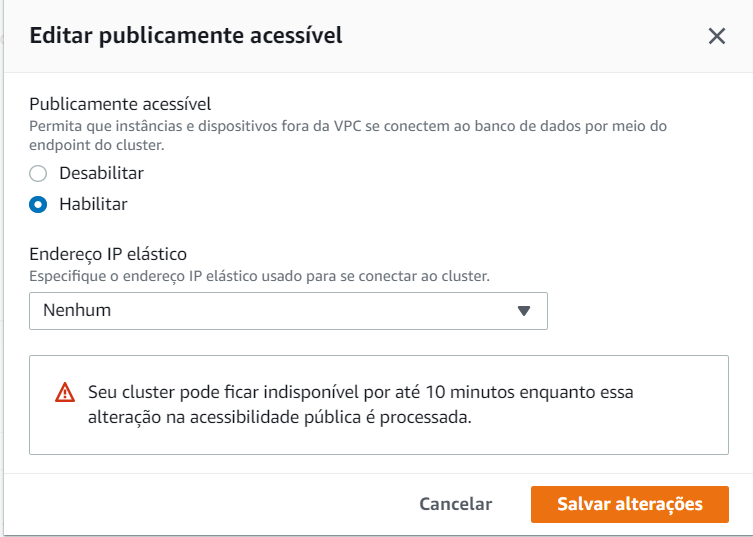
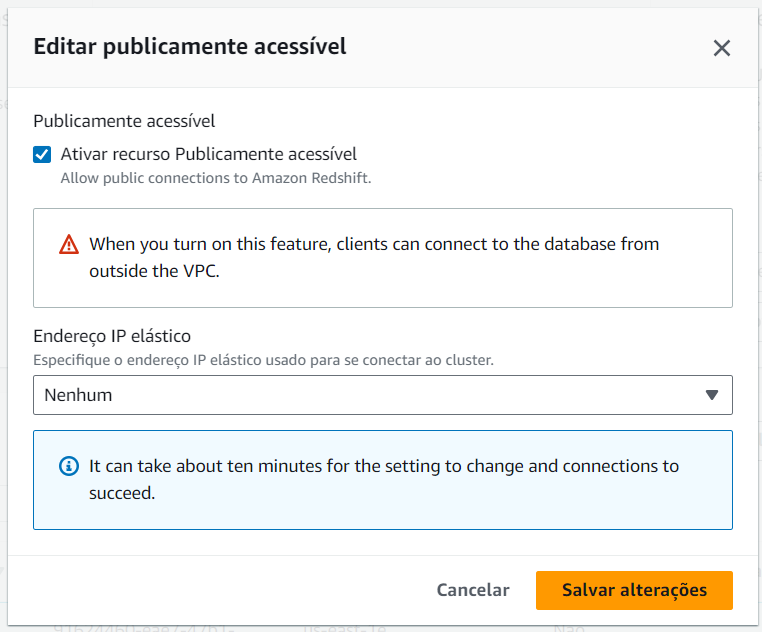
atualização lab 5

diff --git a/template/README.template1.0.md b/template/README.template1.0.md
@@ -1,0 +1,278 @@
+# DataOps - Laboratório 5
+
+Armazenamento com Redshift
+
+As instruções do laboratório estão em português. Para alterar o idioma, procure a opção na barra inferior do console AWS.
+
+
+## Objetivos
+
+*   Criar um banco de dados de Data Warehouse no RedShift 
+*   Carregar dados no RedShift a partir do S3
+*   Consultar dados usando um cliente SQL
+
+
+
+## Arquitetura da solução
+
+<img src="https://raw.github.com/fesousa/dataops-lab5/master/images/Imagem1.png" width='100%'/>
+
+
+## Criar um Cluster no Amazon Redshift
+
+1.	Acesse seu ambiente da AWS
+
+2.	Procure na barra superior pelo serviço `Redshift` e clique no serviço para abrir
+
+3.	Clique no botão  <img src="https://raw.github.com/fesousa/dataops-lab5/master/images/Imagem2.png" height='25'/> (talvez precise rolar a página um pouco para baixo)
+
+4.	Na tela de criação do cluster preencha os seguintes campos:
+
+    4.1.	`Identificador do cluster`: `dataops-cluster`
+
+    4.2.	Selecione a opção `Produção`
+
+    <img src="https://raw.github.com/fesousa/dataops-lab5/master/images/Imagem3.png" height='130'/>
+ 
+    4.3.	Em <img src="https://raw.github.com/fesousa/dataops-lab5/master/images/Imagem6.png" height='25'/> selecione <img src="https://raw.github.com/fesousa/dataops-lab5/master/images/Imagem4.png" height='25'/>
+
+    4.4.	Em <img src="https://raw.github.com/fesousa/dataops-lab5/master/images/Imagem7.png" height='25'/> coloque <img src="https://raw.github.com/fesousa/dataops-lab5/master/images/Imagem5.png" height='25'/>
+
+    4.5.	Na seção <img src="https://raw.github.com/fesousa/dataops-lab5/master/images/Imagem8.png" height='25'/> coloque uma senha no campo <img src="https://raw.github.com/fesousa/dataops-lab5/master/images/Imagem63.png" height='25'/>
+
+&nbsp;&nbsp;&nbsp;&nbsp;&nbsp;&nbsp;&nbsp;&nbsp;&nbsp;&nbsp;&nbsp;a. Precisa ter maiúscula, minúscula e número, com pelo menos 8 caracteres
+
+&nbsp;&nbsp;&nbsp;&nbsp;&nbsp;&nbsp;&nbsp;&nbsp;&nbsp;&nbsp;&nbsp;b. Guarde essa senha para poder conectar no Redshift           
+
+5.	Na seção <img src="https://raw.github.com/fesousa/dataops-lab5/master/images/Imagem9.png" height='25'/>
+
+    5.1. Clique em <img src="https://raw.github.com/fesousa/dataops-lab5/master/images/Imagem10.png" height='25'/> 
+    
+    5.2. Selecione <img src="https://raw.github.com/fesousa/dataops-lab5/master/images/Imagem11.png" height='25'/>
+
+    5.3. Clique em <img src="https://raw.github.com/fesousa/dataops-lab5/master/images/Imagem12.png" height='25'/>
+
+6. Clique em <img src="https://raw.github.com/fesousa/dataops-lab5/master/images/Imagem20.png" height='25'/>
+
+
+7.	Veja o cluster sendo criado na tela
+
+<img src="https://raw.github.com/fesousa/dataops-lab5/master/images/Imagem23.png" height='170'/>
+
+8.	O cluster estará disponível quando a coluna `Status` mostrar `Available`. Enquanto isso, vamos configurar o acesso e baixar o cliente SQL
+
+9. Quando o cluster estiver disponível (`Available`), selecione o checkbox na linha do clister criado
+
+<img src="https://raw.github.com/fesousa/dataops-lab5/master/images/Imagem67.png" height='170'/>
+
+10. Clique em <img src="https://raw.github.com/fesousa/dataops-lab5/master/images/Imagem68.png" height='25'/> na parte superior da tabela e depois em <img src="https://raw.github.com/fesousa/dataops-lab5/master/images/Imagem69.png" height='25'/>
+
+    10.1. Se não estiver habilitado, atualize a página
+
+11. Na nova janela, selecione `Habilitar` e depois em <img src="https://raw.github.com/fesousa/dataops-lab5/master/images/Imagem70.png" height='25'/>
+
+<img src="https://raw.github.com/fesousa/dataops-lab5/master/images/Imagem71.png" height='300'/>
+
+
+
+## Configurar o grupo de segurança (security group)
+
+O grupo de segurança utilizado no cluster (default) não possibilita o acesso de fora da AWS. Vamos configurá-lo para permitir o acesso de qualquer local
+
+1.	Procure na barra superior pelo serviço `VPC` e clique no serviço para abrir
+
+2.	Na tela da VPC, clique na opção <img src="https://raw.github.com/fesousa/dataops-lab5/master/images/Imagem64.png" height='25'/> no menu lateral esquerdo
+
+3.	Na lista de Security Groups mostrada, selecione o item que tem a coluna <img src="https://raw.github.com/fesousa/dataops-lab5/master/images/Imagem65.png" height='25'/> com o valor `default`
+
+<img src="https://raw.github.com/fesousa/dataops-lab5/master/images/Imagem24.png" height='170'/>
+ 
+4.	Na parte inferior, abra a aba <img src="https://raw.github.com/fesousa/dataops-lab5/master/images/Imagem25.png" height='25'/>
+
+5.	Clique em <img src="https://raw.github.com/fesousa/dataops-lab5/master/images/Imagem26.png" height='25'/>
+
+6.	Na nova tela, clique em <img src="https://raw.github.com/fesousa/dataops-lab5/master/images/Imagem27.png" height='25'/> para inserir uma nova regra
+ 
+
+<img src="https://raw.github.com/fesousa/dataops-lab5/master/images/Imagem28.png" height='170'/>
+
+7.	Na segunda regra (recém adicionada) configure:
+
+    7.1. Type: <img src="https://raw.github.com/fesousa/dataops-lab5/master/images/Imagem29.png" height='25'/>
+
+    7.2. Source: <img src="https://raw.github.com/fesousa/dataops-lab5/master/images/Imagem30.png" height='25'/>. Essa regra permite a conexão no Redshift (TCP na porta 5439) de qualquer lugar (0.0.0.0/0)
+    
+    7.3. Clique em <img src="https://raw.github.com/fesousa/dataops-lab5/master/images/Imagem31.png" height='25'/>
+
+## Conectar no Redshift com um cliente SQL
+
+
+1.	Acesse [https://dbeaver.io/download](https://dbeaver.io/download), baixe e instale o software DBeaver compatível com seu sistema operacional. DBeaver é um software cliente para bancos de dados que consegue conectar com diferentes bancos de dados SQL e NoSQL
+
+2.	Abra o DBeaver instalado
+
+<img src="https://raw.github.com/fesousa/dataops-lab5/master/images/Imagem32.png" height='350'/>
+
+3.	Feche a janela `Tip of the day`
+
+4.	Uma nova janela para criar uma conexão será aberta (`Connect to a database`). Caso não veja a janela, clique em <img src="https://raw.github.com/fesousa/dataops-lab5/master/images/Imagem33.png" height='25'/>
+
+<img src="https://raw.github.com/fesousa/dataops-lab5/master/images/Imagem34.png" height='350'/>
+
+5.	Na janela `Connect to a database` comece a escrever `Redshift` no campo de pesquisa para filtrar, selecione a opção do Redshift e depois em <img src="https://raw.github.com/fesousa/dataops-lab5/master/images/Imagem35.png" height='25'/>
+
+<img src="https://raw.github.com/fesousa/dataops-lab5/master/images/Imagem36.png" height='350'/>
+
+6.	Volte ao console da AWS e verifique se o cluster já está disponível (<img src="https://raw.github.com/fesousa/dataops-lab5/master/images/Imagem37.png" height='25'/>). Caso ainda não esteja, aguarde mais um pouco. Você pode clicar em <img src="https://raw.github.com/fesousa/dataops-lab5/master/images/Imagem38.png" height='25'/> para atualizar o status. Quando estiver disponível, faça o seguinte:
+
+    6.1. Clique no nome do cluster para abrir as configurações (link na primeira coluna da lista de clusters)
+
+    <img src="https://raw.github.com/fesousa/dataops-lab5/master/images/Imagem39.png" height='280'/>
+
+    <img src="https://raw.github.com/fesousa/dataops-lab5/master/images/Imagem40.png" height='350'/>
+
+    6.2. Em <img src="https://raw.github.com/fesousa/dataops-lab5/master/images/Imagem41.png" height='25'/> procure por <img src="https://raw.github.com/fesousa/dataops-lab5/master/images/Imagem66.png" height='25'/> e clique em <img src="https://raw.github.com/fesousa/dataops-lab5/master/images/Imagem42.png" height='25'/> para copiar a localização do cluster. Você deve copiar algo parecido com o seguinte: `dataops-cluster.cicvf35nr49i.us-east-1.redshift.amazonaws.com:5439/dev`
+
+7.	Volte para o DBeaver, na tela de configuração de conexão (Connection Settings) e configure o seguinte:
+
+    <img src="https://raw.github.com/fesousa/dataops-lab5/master/images/Imagem43.png" height='380'/>
+
+    7.1. Host/Instance: localização do cluster copiada no passo anterior, até antes do `:`. Deve ser algo parecido com o seguinte: `dataops-cluster.cicvf35nr49i.us-east-1.redshift.amazonaws.com`
+
+    7.2. Password: Senha criada para o cluster na primeira parte deste laboratório
+
+    7.3. Clique em <img src="https://raw.github.com/fesousa/dataops-lab5/master/images/Imagem44.png" height='25'/> para testar as configurações. Você deve receber uma mensagem parecida com essa:
+
+    <img src="https://raw.github.com/fesousa/dataops-lab5/master/images/Imagem45.png" height='350'/>
+ 
+    7.4. Clique em <img src="https://raw.github.com/fesousa/dataops-lab5/master/images/Imagem46.png" height='25'/> para fechar a mensagem
+
+    7.5. Clique em <img src="https://raw.github.com/fesousa/dataops-lab5/master/images/Imagem47.png" height='25'/>
+
+    7.6. Se tiver problemas para conectar, verifique os passos novamente, principalmente em relação ao Security Group e a permissão para acesso público. Se o problema ainda persistir, tente criar novamente o cluster com outro nome.
+
+8.	Você verá a conexão criada ao lado esquerdo. Clique na seta ao lado do nome da conexão para conectar
+
+<img src="https://raw.github.com/fesousa/dataops-lab5/master/images/Imagem48.png" height='350'/>
+
+
+## Importar dados do S3
+
+1.	No DBeaver, clique com o botão direito na conexão criada anteriormente e selecione a opção `SQL Editor` --> `Open SQL script`.
+
+<img src="https://raw.github.com/fesousa/dataops-lab5/master/images/Imagem49.png" height='350'/>
+ 
+2.	Na janela aberta, clique em <img src="https://raw.github.com/fesousa/dataops-lab5/master/images/Imagem50.png" height='25'/>
+
+3.	Uma nova área será aberta a direita para escrever scripts SQL
+
+4.	Crie uma nova tabela para receber os dados de vacinas, executando o seguinte script:
+
+```sql
+${code/vacinas.sql}
+```
+
+&nbsp;&nbsp;&nbsp;&nbsp;&nbsp;&nbsp;&nbsp;4.1.Para executar no DBeaver, clique em <img src="https://raw.github.com/fesousa/dataops-lab5/master/images/Imagem51.png" height='25'/> ao lado esquerdo do script. Você deve receber um resultado parecido com o seguinte abaixo do script:
+
+&nbsp;&nbsp;&nbsp;&nbsp;&nbsp;&nbsp;&nbsp;<img src="https://raw.github.com/fesousa/dataops-lab5/master/images/Imagem52.png" height='350'/>
+
+
+5.	O próximo passo é importar os dados do arquivo CSV que coletamos no último lab e in-cluímos no S3
+
+6.	Abra uma nova aba de script no DBeaver
+
+7.	Execute o seguinte script:
+
+```sql
+${code/import.sql}
+```
+
+&nbsp;&nbsp;&nbsp;&nbsp;&nbsp;&nbsp;&nbsp;5.1. Lembre-se de trocar `nomesobrenome` pelo seu bucket (criado no [Laboratório 1](https://github.com/fesousa/dataops-lab1)) e `ID_CONTA` pelo id da sua conta da AWS
+
+&nbsp;&nbsp;&nbsp;&nbsp;&nbsp;&nbsp;&nbsp;5.2. O Comando COPY é um comando do Redshift que faz a cópia de um arquivo de dados ou do DynamoDB para uma tabela do Redshift. A sintaxe básica é:
+
+```sql
+${code/copy.sql}
+```
+
+&nbsp;&nbsp;&nbsp;&nbsp;&nbsp;&nbsp;&nbsp;No exemplo foi colocado para autorização o IAM Role 'arn:aws:iam::ID_CONTA:role/LabRole' (mesmo que foi associado ao cluster Redshift).
+
+Para os parâmetros utilizamos:
+
+&nbsp;&nbsp;&nbsp;&nbsp;&nbsp;&nbsp;&nbsp;*	CSV: formato do arquivo
+
+&nbsp;&nbsp;&nbsp;&nbsp;&nbsp;&nbsp;&nbsp;*	DELIMITER `;`: caractere (;) delimitador das colunas no arquivo CSV
+
+&nbsp;&nbsp;&nbsp;&nbsp;&nbsp;&nbsp;&nbsp;*	IGNOREHEADER 1: ignorar a primeira linha (cabeçalho)
+
+&nbsp;&nbsp;&nbsp;&nbsp;&nbsp;&nbsp;&nbsp;*	REGION 'us-east-1': região do Bucket e do Redshift
+
+&nbsp;&nbsp;&nbsp;&nbsp;&nbsp;&nbsp;&nbsp;5.3.Se a importação obtiver sucesso, você deve receber um resultado parecido com este:
+
+&nbsp;&nbsp;&nbsp;&nbsp;&nbsp;&nbsp;&nbsp;<img src="https://raw.github.com/fesousa/dataops-lab5/master/images/Imagem53.png" height='350'/>
+ 
+&nbsp;&nbsp;&nbsp;&nbsp;&nbsp;&nbsp;&nbsp;5.4. Agora você pode fazer consultas SQL na tabela vacinas do Redshift
+
+&nbsp;&nbsp;&nbsp;&nbsp;&nbsp;&nbsp;&nbsp;5.5. Por exemplo, abra um novo script SQL e conte a quantidade de vacinas aplicadas por sexo biológico
+
+```sql
+${code/count_vacinas.sql}
+```
+
+## Executar queries no Console do Amazon Redshift
+
+1.	Volte ao console do Redshift na AWS
+
+2.	No menu lateral, clique em `Editor` e então em `Query Editor`
+
+<img src="https://raw.github.com/fesousa/dataops-lab5/master/images/Imagem54.png" height='350'/>
+ 
+3.	Clique em <img src="https://raw.github.com/fesousa/dataops-lab5/master/images/Imagem55.png" height='25'/> para conectar em um cluster do Redshift
+
+4.	Na janela de configuração da conexão (Connect to database) configure:
+
+    4.1. Database name: dev
+
+    4.2. Database user: awsuser
+
+    4.3. Clique em <img src="https://raw.github.com/fesousa/dataops-lab5/master/images/Imagem56.png" height='25'/>
+
+5.	Utilize o editor de texto <img src="https://raw.github.com/fesousa/dataops-lab5/master/images/Imagem57.png" height='25'/> para executar consultas e instruções SQL. Por exemplo: `select * from vacinas`
+
+
+## Faça você mesmo
+1.	Execute a coleta de dados do [Laboratório 4](https://github.com/fesousa/dataops-lab4) novamente para poder atualizar os dados do Acre (AC)
+
+2.	Execute mais uma vez a coleta de dados do [Laboratório 4](https://github.com/fesousa/dataops-lab4), agora para coletar os dados de Tocantins (TO), que está neste link: [https://opendatasus.saude.gov.br/dataset/covid-19-vacinacao/resource/5093679f-12c3-4d6b-b7bd-07694de54173](https://opendatasus.saude.gov.br/dataset/covid-19-vacinacao/resource/5093679f-12c3-4d6b-b7bd-07694de54173)
+
+3.	Faça a importação para o Redshift novamente para os dois arquivos (AC e TO). Lembre-se de remover os registros anteriores do Redshift para não duplicar
+
+4.	Execute algumas consultas para verificar se os dados foram importados corretamente.
+
+## Finalização do Laboratório e Pausar Cluster Redshift
+
+2.	Quando finalizar, lembre-se de pausar o cluster para não gastar recursos. O cluster Redshift tem um custo alto.
+
+    2.1. Volte a lista dos clusters (Clusters --> Clusters)
+
+    <img src="https://raw.github.com/fesousa/dataops-lab5/master/images/Imagem58.png" height='330'/>
+ 
+    2.2. Selecione o cluster criado em aula
+
+    <img src="https://raw.github.com/fesousa/dataops-lab5/master/images/Imagem59.png" height='270'/>
+
+ 
+    2.3. Clique em <img src="https://raw.github.com/fesousa/dataops-lab5/master/images/Imagem60.png" height='25'/> e então em <img src="https://raw.github.com/fesousa/dataops-lab5/master/images/Imagem61.png" height='25'/>
+
+    2.4. Na nova tela, clique em <img src="https://raw.github.com/fesousa/dataops-lab5/master/images/Imagem62.png" height='25'/>
+
+    2.5. Verifique se o cluster foi pausado
+
+
+
+
+<div class="footer">
+    &copy; 2022 Fernando Sousa
+    <br/>
+    {{update}}
+</div>

diff --git a/template/README.template.md b/template/README.template.md
@@ -24,21 +24,17 @@ As instruções do laboratório estão em português. Para alterar o idioma, pro
 
 2.	Procure na barra superior pelo serviço `Redshift` e clique no serviço para abrir
 
-3.	Clique no botão  <img src="https://raw.github.com/fesousa/dataops-lab5/master/images/Imagem2.png" height='25'/>
+3.	Clique no botão  <img src="https://raw.github.com/fesousa/dataops-lab5/master/images/Imagem2.png" height='25'/> (talvez precise rolar a página um pouco para baixo)
 
 4.	Na tela de criação do cluster preencha os seguintes campos:
 
     4.1.	`Identificador do cluster`: `dataops-cluster`
 
-    4.2.	Selecione a opção `Produção`
+    4.2.	Em <img src="https://raw.github.com/fesousa/dataops-lab5/master/images/Imagem6.png" height='25'/> selecione <img src="https://raw.github.com/fesousa/dataops-lab5/master/images/Imagem4.png" height='25'/>
 
-    <img src="https://raw.github.com/fesousa/dataops-lab5/master/images/Imagem3.png" height='130'/>
- 
-    4.3.	Em <img src="https://raw.github.com/fesousa/dataops-lab5/master/images/Imagem6.png" height='25'/> selecione <img src="https://raw.github.com/fesousa/dataops-lab5/master/images/Imagem4.png" height='25'/>
+    4.3.	Em <img src="https://raw.github.com/fesousa/dataops-lab5/master/images/Imagem7.png" height='25'/> coloque <img src="https://raw.github.com/fesousa/dataops-lab5/master/images/Imagem5.png" height='25'/>
 
-    4.4.	Em <img src="https://raw.github.com/fesousa/dataops-lab5/master/images/Imagem7.png" height='25'/> coloque <img src="https://raw.github.com/fesousa/dataops-lab5/master/images/Imagem5.png" height='25'/>
-
-    4.5.	Na seção <img src="https://raw.github.com/fesousa/dataops-lab5/master/images/Imagem8.png" height='25'/> coloque uma senha no campo <img src="https://raw.github.com/fesousa/dataops-lab5/master/images/Imagem63.png" height='25'/>
+    4.3.	Na seção <img src="https://raw.github.com/fesousa/dataops-lab5/master/images/Imagem8.png" height='25'/> coloque uma senha no campo <img src="https://raw.github.com/fesousa/dataops-lab5/master/images/Imagem63.png" height='25'/>
 
 &nbsp;&nbsp;&nbsp;&nbsp;&nbsp;&nbsp;&nbsp;&nbsp;&nbsp;&nbsp;&nbsp;a. Precisa ter maiúscula, minúscula e número, com pelo menos 8 caracteres
 
@@ -57,9 +53,9 @@ As instruções do laboratório estão em português. Para alterar o idioma, pro
 
 7.	Veja o cluster sendo criado na tela
 
-<img src="https://raw.github.com/fesousa/dataops-lab5/master/images/Imagem23.png" height='170'/>
+<img src="https://raw.github.com/fesousa/dataops-lab5/master/images/Imagem23.png" width='100%'/>
 
-8.	O cluster estará disponível quando a coluna `Status` mostrar `Available`. Enquanto isso, vamos configurar o acesso e baixar o cliente SQL
+8.	O cluster estará disponível quando a coluna `Status` mostrar `Available`.
 
 9. Quando o cluster estiver disponível (`Available`), selecione o checkbox na linha do clister criado
 
@@ -69,7 +65,7 @@ As instruções do laboratório estão em português. Para alterar o idioma, pro
 
     10.1. Se não estiver habilitado, atualize a página
 
-11. Na nova janela, selecione `Habilitar` e depois em <img src="https://raw.github.com/fesousa/dataops-lab5/master/images/Imagem70.png" height='25'/>
+11. Na nova janela, selecione `Ativar recurso Publicamente acessível` e depois em <img src="https://raw.github.com/fesousa/dataops-lab5/master/images/Imagem70.png" height='25'/>
 
 <img src="https://raw.github.com/fesousa/dataops-lab5/master/images/Imagem71.png" height='300'/>
 
